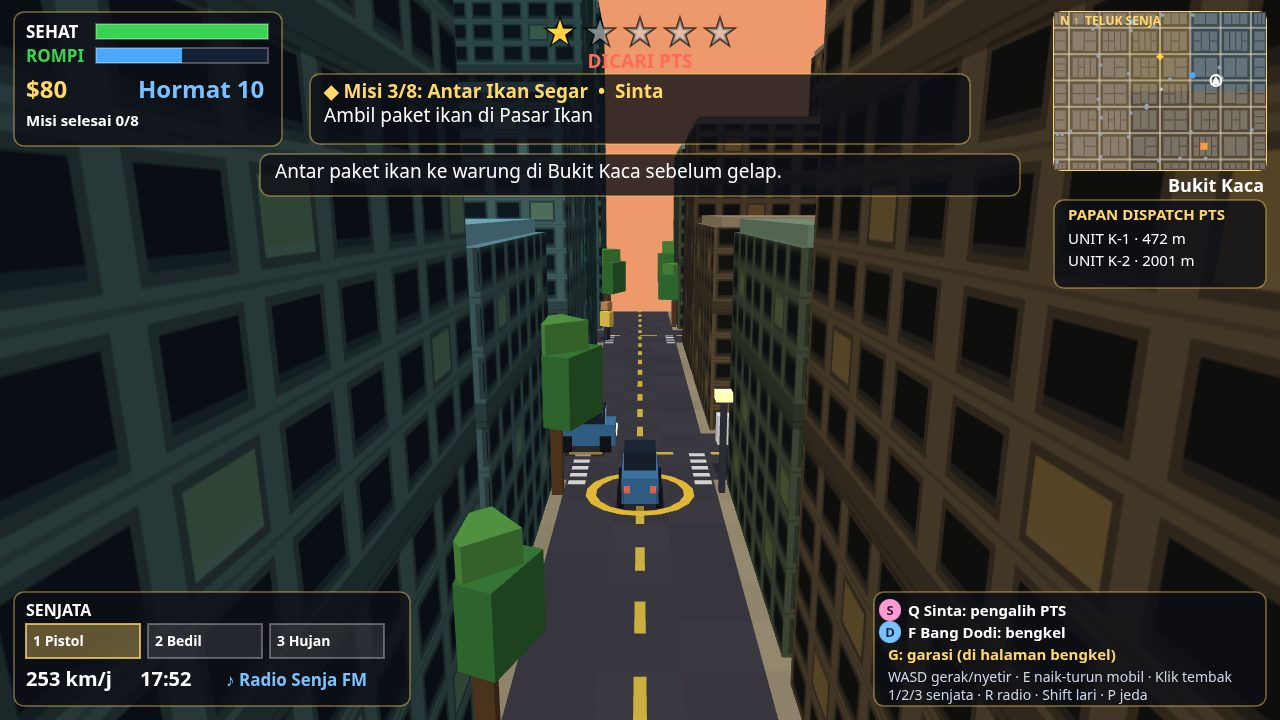
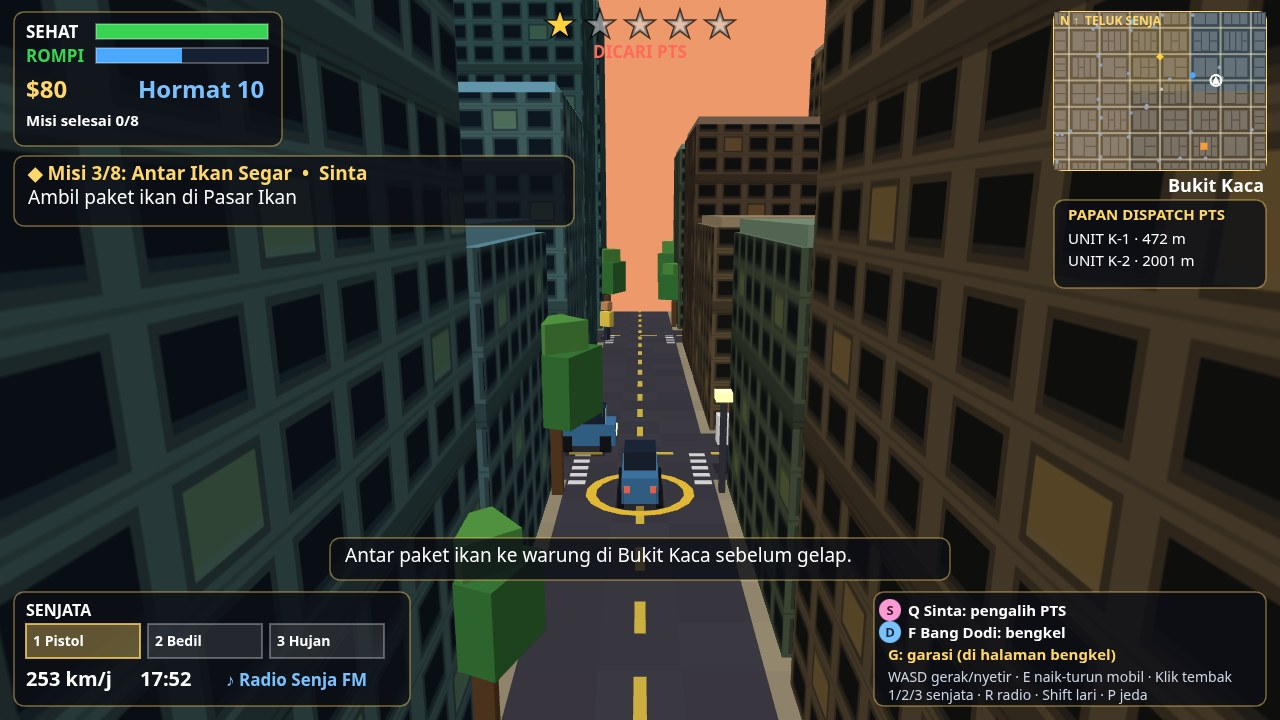
Polish 2: visible helicopter body, HUD sky window, softer searchlight

Changed region(s): [[0.0, 0.0, 0.8125, 0.3361], [0.25, 0.7333, 0.75, 0.825]]

diff --git a/game/src/hud.js b/game/src/hud.js
@@ -63,15 +63,21 @@ export function drawHud(ctx, state, vw, vh) {
   ctx.fillStyle = '#ffffff';
   ctx.fillText(`Misi selesai ${state.completedMissions}/8`, 26, 126);
 
-  // --- Top centre: wanted stars + mission tracker.
-  const trackerW = Math.min(660, vw - 560);
-  const trackerX = (vw - trackerW) / 2;
-  stars(ctx, vw / 2, 44, state.wanted);
+  // --- Top centre: wanted stars only. The mission tracker moved to
+  // the left column so the sky above the street stays open for the
+  // helicopter; the centre message banner moved to the bottom centre
+  // for the same reason.
+  const trackerW = Math.min(560, Math.max(320, vw - 560));
+  const trackerX = 14;
+  const trackerY = 156;
+  // Stars sit high and compact so the helicopter body, which flies
+  // just below them in the top-centre sky, never covers the label.
+  stars(ctx, vw / 2, 36, state.wanted);
   if (state.wanted > 0) {
-    ctx.font = 'bold 19px system-ui, sans-serif';
+    ctx.font = 'bold 17px system-ui, sans-serif';
     ctx.fillStyle = '#ff6a5a';
     ctx.textAlign = 'center';
-    ctx.fillText('DICARI PTS', vw / 2, 68);
+    ctx.fillText('DICARI PTS', vw / 2, 58);
   }
   const step = currentStep(state);
   if (state.mission && step) {
@@ -79,7 +85,7 @@ export function drawHud(ctx, state, vw, vh) {
     const title = `Misi ${state.mission.id}/8: ${state.mission.title}  •  ${state.mission.giver}`;
     const lines = wrapText(ctx, step.label, trackerW - 28);
     const th = 34 + lines.length * 24 + 12;
-    const ty = state.wanted > 0 ? 74 : 56;
+    const ty = trackerY;
     panel(ctx, trackerX, ty, trackerW, th);
     ctx.textAlign = 'left';
     ctx.fillStyle = '#ffd76a';
@@ -89,20 +95,21 @@ export function drawHud(ctx, state, vw, vh) {
     lines.forEach((line, i) => ctx.fillText(line, trackerX + 14, ty + 48 + i * 24));
     state._missionBottom = ty + th;
   } else if (state.completedMissions >= 8) {
-    panel(ctx, trackerX, 56, trackerW, 40);
+    panel(ctx, trackerX, trackerY, trackerW, 40);
     ctx.textAlign = 'center';
     ctx.fillStyle = '#ffd76a';
     ctx.font = 'bold 19px system-ui, sans-serif';
-    ctx.fillText('SEMUA MISI SELESAI — Teluk Senja bebas!', vw / 2, 82);
+    ctx.fillText('SEMUA MISI SELESAI — Teluk Senja bebas!', trackerX + trackerW / 2, trackerY + 26);
   }
 
-  // --- Centre message banner (below the tracker, never overlapping it).
+  // --- Bottom-centre message banner (below the tracker, above the
+  // bottom panels, never covering the sky above the street).
   if (state.messageTimer > 0 && state.message) {
     ctx.font = '19px system-ui, sans-serif';
-    const mw = Math.min(760, vw - 80);
+    const mw = Math.min(620, vw - 80);
     const mlines = wrapText(ctx, state.message, mw - 30);
     const mh = mlines.length * 24 + 18;
-    const my = (state._missionBottom || 150) + 10;
+    const my = vh - 140 - mh;
     panel(ctx, (vw - mw) / 2, my, mw, mh);
     ctx.textAlign = 'left';
     ctx.fillStyle = '#ffffff';

diff --git a/game/src/gl3d.js b/game/src/gl3d.js
@@ -608,29 +608,33 @@ function drawCharacter(geo, trans, x, y, angle, shirt, skin, opt = {}) {
 
 function drawHelicopter(geo, trans, h, time, camRight) {
   const cx = wx(h.x); const cz = wz(h.y);
-  // Alt 10.5 with the hover ahead/side keeps the searchlight cone
-  // clearly visible; lower altitudes hid the body behind the HUD
-  // banner anyway and washed the frame out with the cone.
-  const alt = 10.5;
-  const k = 1.35; // body scale
+  // Lower altitude and a hover near the road centreline keep the
+  // body inside the third-person frame against the open sky (the HUD
+  // tracker/banner moved off the top centre for the same reason).
+  // A bigger body scale makes it read at chase distance.
+  const alt = 6.8;
+  const k = 1.6; // body scale
   const body = [0.22, 0.40, 0.52];
   geo.box(cx, alt, cz, 2.4 * k, 0.85 * k, 1.0 * k, h.angle * 0.15, body, {});
   geo.box(cx - Math.cos(h.angle * 0.15) * 1.9 * k, alt + 0.1, cz - Math.sin(h.angle * 0.15) * 1.9 * k, 1.5 * k, 0.3 * k, 0.3 * k, h.angle * 0.15, body, {});
   geo.box(cx + Math.cos(h.angle * 0.15) * 0.7 * k, alt + 0.1, cz + Math.sin(h.angle * 0.15) * 0.7 * k, 0.5 * k, 0.5 * k, 0.7 * k, h.angle * 0.15, [0.55, 0.75, 0.88], {});
-  // Rotor, spinning.
+  // Rotor, spinning. Short blades, kept inside the body's silhouette:
+  // a full-length blade swept up across the wanted stars in the
+  // chase frame.
   const ra = h.rotor;
-  geo.box(cx, alt + 0.62 * k, cz, 3.4 * k, 0.07, 0.14, ra, [0.1, 0.1, 0.12], {});
-  geo.box(cx, alt + 0.62 * k, cz, 0.14, 0.07, 3.4 * k, ra, [0.1, 0.1, 0.12], {});
+  geo.box(cx, alt + 0.62 * k, cz, 1.2 * k, 0.07, 0.14, ra, [0.1, 0.1, 0.12], {});
+  geo.box(cx, alt + 0.62 * k, cz, 0.14, 0.07, 1.2 * k, ra, [0.1, 0.1, 0.12], {});
   // Skids.
   geo.box(cx - 0.3 * k, alt - 0.62 * k, cz, 1.6 * k, 0.08, 0.08, h.angle * 0.15, [0.15, 0.15, 0.17], {});
   geo.box(cx + 0.3 * k, alt - 0.62 * k, cz, 1.6 * k, 0.08, 0.08, h.angle * 0.15, [0.15, 0.15, 0.17], {});
-  // Searchlight cone + ground pool: wider and brighter so the beam
-  // reads against the street, not just as a faint slant.
+  // Searchlight cone + ground pool: narrower and a touch softer now
+  // that the helicopter flies lower, so the beam reads without
+  // washing out the street.
   const lx = wx(h.lightX); const lz = wz(h.lightY);
-  trans.cone([cx, alt - 0.3, cz], [lx, 0.1, lz], 2.4, [1, 0.96, 0.78], 0.34, 10);
+  trans.cone([cx, alt - 0.3, cz], [lx, 0.1, lz], 1.8, [1, 0.96, 0.78], 0.20, 10);
   trans.quad(
     [lx - 1.9, 0.08, lz - 1.1], [lx + 1.9, 0.08, lz - 1.1], [lx + 1.9, 0.08, lz + 1.1], [lx - 1.9, 0.08, lz + 1.1],
-    [0, 1, 0], [1, 0.96, 0.78], [[0, 0], [1, 0], [1, 1], [0, 1]], 0, 0, 0.45);
+    [0, 1, 0], [1, 0.96, 0.78], [[0, 0], [1, 0], [1, 1], [0, 1]], 0, 0, 0.30);
   // Shadow blob on the ground.
   trans.quad(
     [lx - 1.2, 0.06, lz - 0.5], [lx + 1.2, 0.06, lz - 0.5], [lx + 1.2, 0.06, lz + 0.5], [lx - 1.2, 0.06, lz + 0.5],

diff --git a/game/src/police.js b/game/src/police.js
@@ -90,11 +90,14 @@ export function updatePolice(state, dt) {
     }
     const h = state.helicopter;
     h.rotor += dt * 30;
-    // Hover ahead of the player, offset to one side, so the
-    // searchlight cone reads in the third-person frame.
+    // Hover ahead of the player, close to the road centreline, so the
+    // helicopter body itself reads in the third-person frame against
+    // the open sky above the street (the old wide side offset put it
+    // over the blocks, and high altitudes pushed it off the top edge
+    // or behind the HUD banner).
     const heading = player.car ? player.car.angle : player.angle;
-    const tx = player.x + Math.cos(heading) * 280 - Math.sin(heading) * 200;
-    const ty = player.y + Math.sin(heading) * 280 + Math.cos(heading) * 200;
+    const tx = player.x + Math.cos(heading) * 330 - Math.sin(heading) * 60;
+    const ty = player.y + Math.sin(heading) * 330 + Math.cos(heading) * 60;
     h.x += (tx - h.x) * Math.min(1, dt * 2.8);
     h.y += (ty - h.y) * Math.min(1, dt * 2.8);
     h.lightX += (player.x - h.lightX) * Math.min(1, dt * 4);
